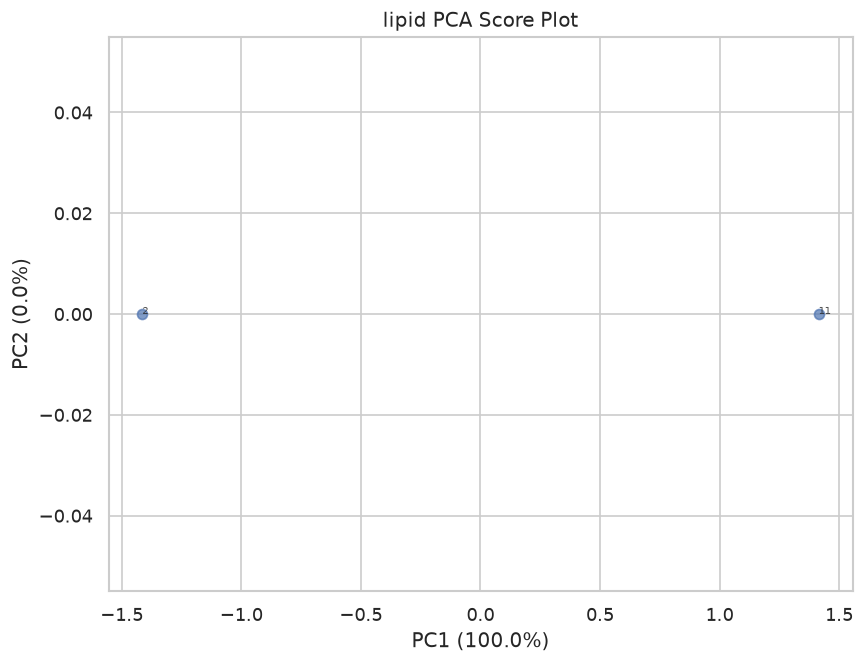
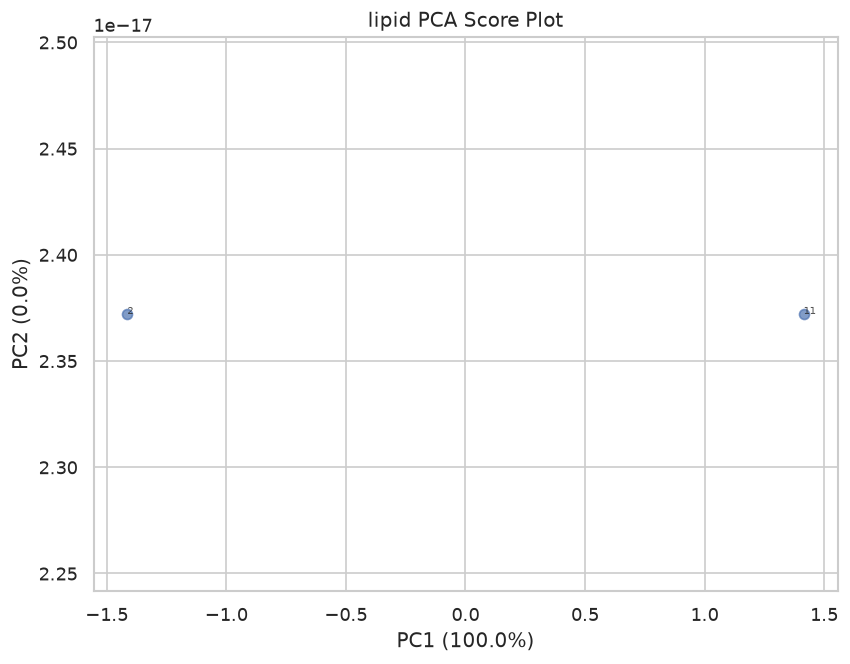
add ETag caching for Vesiclepedia downloads; fix pagination offset

diff --git a/evtrack_workflow/scraper.py b/evtrack_workflow/scraper.py
@@ -1,3 +1,5 @@
+import hashlib
+import json
 import time
 import logging
 import re
@@ -22,6 +24,19 @@ HEADERS = {
     "Accept-Language": "en-US,en;q=0.5",
 }
 
+CACHE_MANIFEST = ".cache_manifest.json"
+
+
+def _load_manifest(cache_dir: Path):
+    p = cache_dir / CACHE_MANIFEST
+    if p.exists():
+        return json.loads(p.read_text())
+    return {}
+
+
+def _save_manifest(cache_dir: Path, manifest: dict):
+    (cache_dir / CACHE_MANIFEST).write_text(json.dumps(manifest, indent=2))
+
 
 def _get_soup(url, session=None):
     s = session or requests.Session()
@@ -31,7 +46,7 @@ def _get_soup(url, session=None):
 
 
 def scrape_evtrack_recent(n=100):
-    """Scrape the *n* most recent studies from EV-TRACK (paginated, newest first)."""
+    """Scrape the n most recent studies from EV-TRACK (paginated, newest first)."""
     session = requests.Session()
     studies = []
     offset = 0
@@ -111,61 +126,69 @@ def scrape_evtrack_recent(n=100):
             if len(studies) >= n:
                 break
 
-        offset += n
+        offset += len(rows)
         if offset > 500:
             break
         time.sleep(0.5)
 
     df = pd.DataFrame(studies).drop_duplicates(subset=["evtrack_id"])
-    logger.info(
-        "Scraped %d studies from EV-TRACK", len(df)
-    )
+    logger.info("Scraped %d studies from EV-TRACK", len(df))
     return df.head(n).reset_index(drop=True)
 
 
-def _try_download_vesiclepedia(url, dest_path, session):
-    """Download a file from Vesiclepedia, retrying with session cookies."""
-    resp = session.get(url, headers=HEADERS, timeout=120)
+def _conditional_download(url, dest_path, session, etag=None):
+    """Download if ETag changed; return (path, etag, was_updated)."""
+    headers = HEADERS.copy()
+    if etag:
+        headers["If-None-Match"] = etag
+
+    resp = session.get(url, headers=headers, timeout=120)
+
+    if resp.status_code == 304:
+        logger.info("Unchanged (304) — %s", dest_path.name)
+        return dest_path, etag, False
+
     if resp.status_code != 200 or len(resp.content) < 1000:
         raise ConnectionError(
             f"Failed to download {url} (status={resp.status_code}, "
             f"size={len(resp.content)})"
         )
+
     dest_path.parent.mkdir(parents=True, exist_ok=True)
     dest_path.write_bytes(resp.content)
-    logger.info("Downloaded %s -> %s (%d bytes)", url, dest_path, len(resp.content))
-    return dest_path
+    new_etag = resp.headers.get("ETag", "")
+    logger.info("Downloaded %s -> %s (%d bytes, etag=%s)", url, dest_path, len(resp.content), new_etag[:20] if new_etag else "none")
+    return dest_path, new_etag, True
 
 
 VESICLEPEDIA_FILES = {
-    "protein_mrna": (
-        "VESICLEPEDIA_PROTEIN_MRNA_DETAILS_5.1.txt",
-        "protein_mrna.txt",
-    ),
+    "protein_mrna": ("VESICLEPEDIA_PROTEIN_MRNA_DETAILS_5.1.txt", "protein_mrna.txt"),
     "mirna": ("VESICLEPEDIA_MIRNA_DETAILS_5.1.txt", "mirna.txt"),
     "lipid": ("VESICLEPEDIA_LIPID_DETAILS_5.1.txt", "lipid.txt"),
-    "experiment": (
-        "VESICLEPEDIA_EXPERIMENT_DETAILS_5.1.txt",
-        "experiment.txt",
-    ),
+    "experiment": ("VESICLEPEDIA_EXPERIMENT_DETAILS_5.1.txt", "experiment.txt"),
 }
 
 
 def download_vesiclepedia(output_dir: Path):
-    """Download Vesiclepedia dataset files."""
+    """Download Vesiclepedia dataset files with ETag caching."""
     session = requests.Session()
     session.get(VESICLEPEDIA_BASE, headers=HEADERS, timeout=30)
+    manifest = _load_manifest(output_dir)
 
     downloaded = {}
     for key, (remote, local) in VESICLEPEDIA_FILES.items():
         url = f"{VESICLEPEDIA_BASE}/Archive/{remote}"
         dest = output_dir / local
+        cached_etag = manifest.get(local, {}).get("etag")
         try:
-            _try_download_vesiclepedia(url, dest, session)
+            path, etag, _ = _conditional_download(url, dest, session, cached_etag)
+            if etag:
+                manifest[local] = {"etag": etag}
             downloaded[key] = dest
         except Exception as e:
             logger.warning("Could not download %s: %s", url, e)
 
+    _save_manifest(output_dir, manifest)
     return downloaded
 
 
@@ -199,12 +222,10 @@ def build_cargo_profiles(studies_df, vesiclepedia_dir: Path):
 
 
 def _build_from_vesiclepedia(studies_df, protein_path, mirna_path, lipid_path, exp_path):
-    """Parse Vesiclepedia flat files and build study × cargo matrices."""
+    """Parse Vesiclepedia flat files and build study x cargo matrices."""
     exp_df = pd.read_csv(exp_path, sep="\t", encoding="latin1", low_memory=False)
 
-    prot_df = pd.read_csv(
-        protein_path, sep="\t", encoding="latin1", low_memory=False
-    )
+    prot_df = pd.read_csv(protein_path, sep="\t", encoding="latin1", low_memory=False)
 
     pmid_list = studies_df["pmid"].dropna().unique().tolist()
     pmid_list = [p for p in pmid_list if p]
@@ -235,12 +256,8 @@ def _build_from_vesiclepedia(studies_df, protein_path, mirna_path, lipid_path, e
         logger.warning("No protein data matched")
 
     if mirna_path and mirna_path.exists():
-        mirna_df = pd.read_csv(
-            mirna_path, sep="\t", encoding="latin1", low_memory=False
-        )
-        mirna_sub = mirna_df[
-            mirna_df["EXPERIMENT ID"].astype(str).isin(matched_ids)
-        ]
+        mirna_df = pd.read_csv(mirna_path, sep="\t", encoding="latin1", low_memory=False)
+        mirna_sub = mirna_df[mirna_df["EXPERIMENT ID"].astype(str).isin(matched_ids)]
         if not mirna_sub.empty:
             mirna_matrix = mirna_sub.pivot_table(
                 index="MIRNA ID",
@@ -252,12 +269,8 @@ def _build_from_vesiclepedia(studies_df, protein_path, mirna_path, lipid_path, e
             logger.info("miRNA matrix: %s", mirna_matrix.shape)
 
     if lipid_path and lipid_path.exists():
-        lipid_df = pd.read_csv(
-            lipid_path, sep="\t", encoding="latin1", low_memory=False
-        )
-        lipid_sub = lipid_df[
-            lipid_df["EXPERIMENT ID"].astype(str).isin(matched_ids)
-        ]
+        lipid_df = pd.read_csv(lipid_path, sep="\t", encoding="latin1", low_memory=False)
+        lipid_sub = lipid_df[lipid_df["EXPERIMENT ID"].astype(str).isin(matched_ids)]
         if not lipid_sub.empty:
             lipid_matrix = lipid_sub.pivot_table(
                 index="LIPID ID",
@@ -272,9 +285,7 @@ def _build_from_vesiclepedia(studies_df, protein_path, mirna_path, lipid_path, e
 
 
 def _build_representative_profiles(studies_df):
-    """Generate realistic synthetic cargo profiles based on known EV biology,
-    using study metadata (species, sample type, separation protocol) to
-    introduce biologically meaningful variation."""
+    """Generate realistic synthetic cargo profiles based on known EV biology."""
     rng = np.random.default_rng(42)
 
     ev_markers = [
@@ -340,7 +351,7 @@ def _build_representative_profiles(studies_df):
         results[cargo_type] = df
 
     logger.info(
-        "Built representative profiles — protein: %s, rna: %s, lipid: %s",
+        "Built representative profiles - protein: %s, rna: %s, lipid: %s",
         results["protein"].shape,
         results["rna"].shape,
         results["lipid"].shape,
